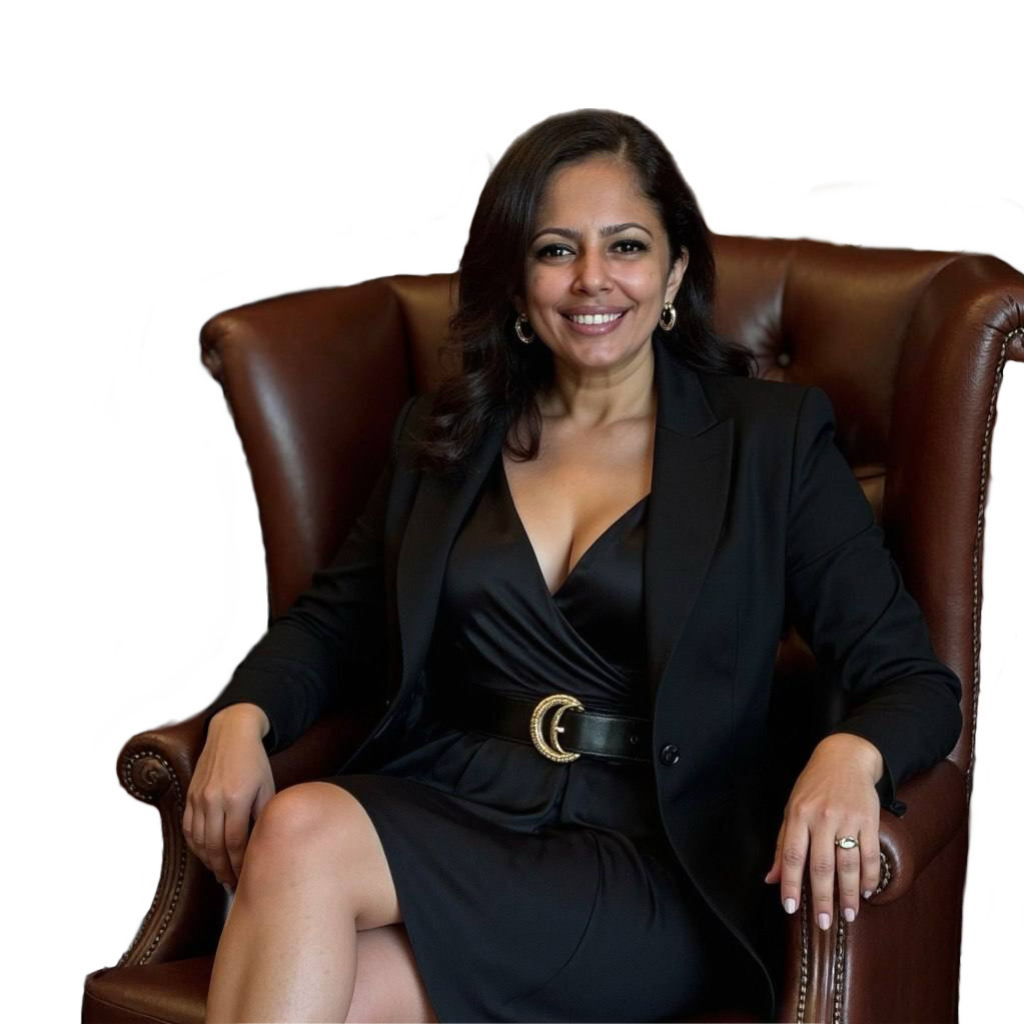
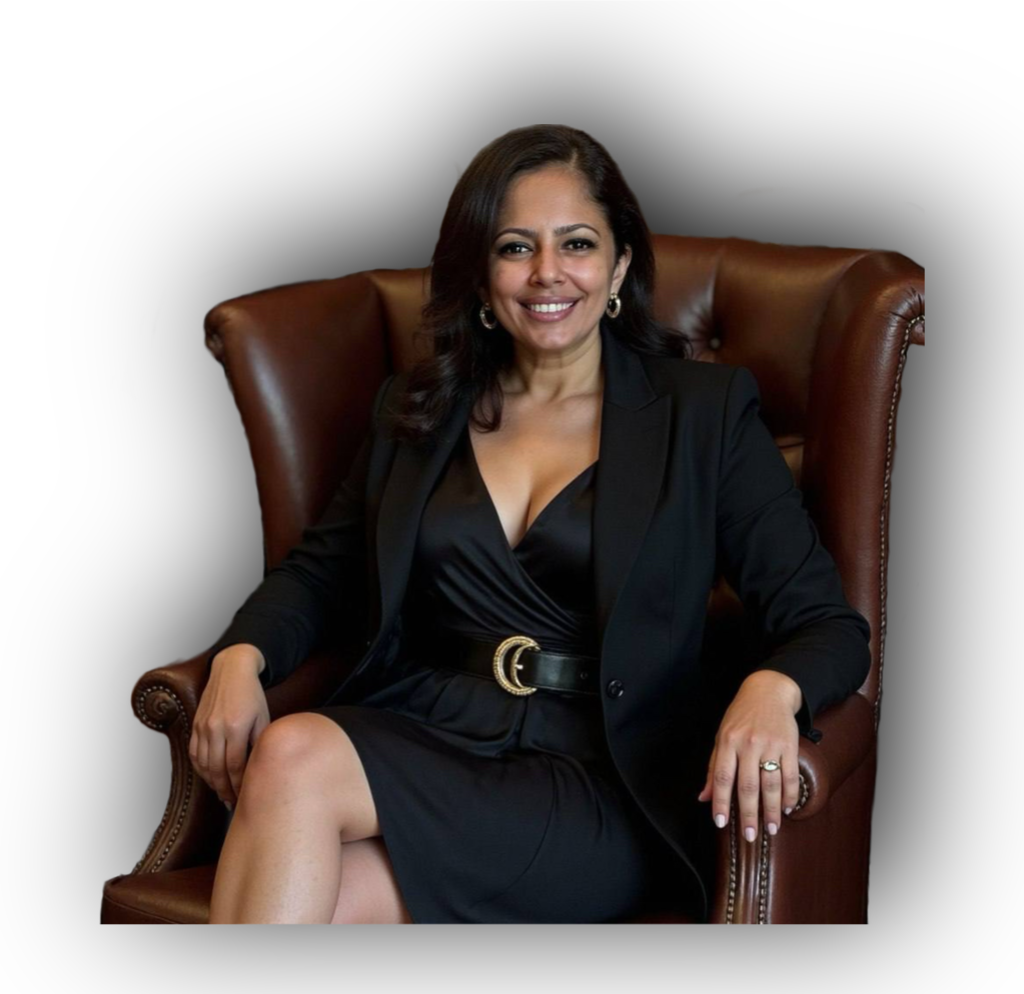
Update settings

diff --git a/index.html b/index.html
@@ -51,17 +51,37 @@
                 <ul>
                     <li>
                         <a href="#about" aria-label="Go to about section">
-                            Обо мне
+                            <!-- Обо мне -->
+                            ОБО МНЕ
+                        </a>
+                    </li>
+                    <li>
+                        <a href="#about" aria-label="Go to about section">
+                            <!-- Обо мне -->
+                            |
                         </a>
                     </li>
                     <li>
                         <a href="#services" aria-label="Go to services section">
-                            Формат работы
+                            <!-- Формат работы -->
+                            С чего начать
+                        </a>
+                    </li>
+                    <li>
+                        <a href="#about" aria-label="Go to about section">
+                            <!-- Обо мне -->
+                            |
                         </a>
                     </li>
                     <li>
                         <a href="#testimonials" aria-label="Go to testimonials section">
                             Отзывы
+                        </a>
+                    </li>
+                    <li>
+                        <a href="#about" aria-label="Go to about section">
+                            <!-- Обо мне -->
+                            |
                         </a>
                     </li>
                     <li>
@@ -100,8 +120,8 @@
                 </div>
                 <div class="hero-photo-wrap">
                     <div class="hero-photo-container">
-                        <img src="assets/images/intro/suria-sitting-smiling-in-the-chair.png"
-                            alt="Suria sitting and smiling in a chair" class="hero-photo">
+                        <img src="assets/images/intro/123123.png" alt="Suria sitting and smiling in a chair"
+                            class="hero-photo">
                     </div>
                 </div>
             </div>
@@ -110,7 +130,7 @@
             </div> -->
         </section>
 
-        <aside class="section-breaker"></aside>
+        <!-- <aside class="section-breaker"></aside> -->
 
         <section class="alt about-section" id="about">
             <div class="container about-grid">
@@ -137,7 +157,7 @@
                 </div>
             </div>
         </section>
-        <aside class="section-breaker"></aside>
+        <!-- <aside class="section-breaker"></aside> -->
         <section id="services">
             <div class="container">
                 <div class="services-header">
@@ -180,7 +200,7 @@
                 </div>
             </div>
         </section>
-        <aside class="section-breaker"></aside>
+        <!-- <aside class="section-breaker"></aside> -->
         <section id="products" class="alt">
             <div class="container products-grid">
                 <div class="products-photo-wrap">
@@ -254,7 +274,7 @@
                 </div>
             </div>
         </section>
-        <aside class="section-breaker"></aside>
+        <!-- <aside class="section-breaker"></aside> -->
 
         <section id="testimonials">
             <div class="container">
@@ -358,7 +378,7 @@
                 </div>
             </div>
         </section>
-        <aside class="section-breaker"></aside>
+        <!-- <aside class="section-breaker"></aside> -->
         <section id="social">
             <div class="container">
                 <h2 class="section-title section-title--lined">Присоединяйтесь в моих
@@ -399,7 +419,7 @@
                 </div>
             </div>
         </section>
-        <aside class="section-breaker"></aside>
+        <!-- <aside class="section-breaker"></aside> -->
         <section id="contact">
             <div class="container contact-grid">
                 <div class="contact-text" id="sofia-contact">
@@ -463,7 +483,8 @@
                     Обо мне
                 </a>
                 <a href="#services" aria-label="Go to services section">
-                    Формат работы
+                    <!-- Формат работы -->
+                    С чего начать
                 </a>
                 <a href="#services" aria-label="Go to services section">
                     Отзывы

diff --git a/assets/css/style.css b/assets/css/style.css
@@ -1,4 +1,4 @@
-/* First Font - Regular */
+/* First Font - Regular
 @font-face {
     font-family: "MyFont";
     src: url("fonts/SCJurere.otf") format("opentype");
@@ -22,20 +22,21 @@
     font-style: normal;
 }
 
-:root {
+*/:root {
     /* Цвета: #380606, #FFC909, #000000, #FFFFFF */
     /* --deep-red: #380606; */
-    --deep-red: #440000;
+    /* --deep-red: #440000; */
     /* --gold: #FFC909; */
+    --deep-red: #330606;
     --gold: #FDE885;
     --beige: #edded2;
     --black: #000000;
     --white: #FFFFFF;
     --extra-background: #0000006a;
-    /* --ff-headings: 'Lora', Georgia, serif;
-    --ff-body: 'Montserrat', -apple-system, BlinkMacSystemFont, 'Segoe UI', sans-serif; */
-    --ff-headings: "MyFont-Bold", serif;
-    --ff-body: "MyFont", -apple-system, BlinkMacSystemFont, 'Segoe UI', sans-serif;
+    --ff-headings: 'Lora', Georgia, serif;
+    --ff-body: 'Montserrat', -apple-system, BlinkMacSystemFont, 'Segoe UI', sans-serif;
+    /* --ff-headings: "MyFont-Bold", serif;
+    --ff-body: "MyFont", -apple-system, BlinkMacSystemFont, 'Segoe UI', sans-serif; */
 }
 
 
@@ -72,7 +73,8 @@ body {
     flex-direction: column;
     justify-content: center;
     align-items: center;
-    background-image: linear-gradient(to bottom, #440000, #360407, #28060a, #1a0308, #000000);
+    /* background-image: linear-gradient(to bottom, #440000, #360407, #28060a, #1a0308, #000000); */
+    background-image: linear-gradient(to bottom, #1b0000, #28060a, #1a0308, #000000);
 }
 
 a {
@@ -87,7 +89,8 @@ img {
 
 header {
     width: 100%;
-    background: var(--extra-background);
+    /* background: var(--extra-background); */
+    background-image: linear-gradient(to bottom, #440000, #360407, #28060a, #1a0308, #000000);
     color: var(--white);
     position: sticky;
     top: 0;
@@ -97,7 +100,7 @@ header {
 
 .container {
     width: 100%;
-    /* max-width: 1120px; */
+    max-width: 1120px;
     margin: 0 auto;
     padding: 0 1em;
 }
@@ -170,6 +173,14 @@ nav a:hover {
     /* background: radial-gradient(circle at top left, #5b1111 0, var(--deep-red) 40%, var(--black) 100%); */
     color: var(--white);
     padding: 2em 3em 0;
+    background-image: linear-gradient(to bottom, #1b0000, #28060a, #1a0308, #000000);
+}
+
+.hero {
+    /* background: radial-gradient(circle at top left, #5b1111 0, var(--deep-red) 40%, var(--black) 100%); */
+    color: var(--white);
+    padding: 2em 3em 0;
+    background-image: linear-gradient(to bottom, #1b0000, #28060a, #1a0308, #000000);
 }
 
 .hero-grid {
@@ -219,6 +230,7 @@ nav a:hover {
     font-weight: 600;
     font-size: 0.96rem;
     cursor: pointer;
+    margin-bottom: 1rem;
 }
 
 .btn-primary:hover {
@@ -242,10 +254,15 @@ nav a:hover {
 
 .hero-photo-wrap {
     display: flex;
-    justify-content: center;
+    justify-content: end;
+    align-items: end;
+    /* background-color: green; */
 }
 
 .hero-photo-container {
+    display: flex;
+    justify-content: end;
+    align-items: end;
     /* width: 260px;
     height: 260px;
     border-radius: 50%;
@@ -262,10 +279,18 @@ nav a:hover {
 }
 
 .hero-photo {
+    /* padding: 0; */
+    /* display: flex;
+    justify-content: end;
+    align-items: end; */
+    display: block;
     width: 100%;
     height: 100%;
     object-position: center;
     object-fit: cover !important;
+    /* border-bottom: 2px solid var(--beige);
+    border-right: 2px solid var(--beige); */
+    /* background-color: green; */
     /* -webkit-box-shadow: 0px -6px 30px 16px #000000;
     box-shadow: 0px -6px 30px 16px #000000; */
     /* border-radius: 50%; */

diff --git a/assets/css/diagnostics.css b/assets/css/diagnostics.css
@@ -38,7 +38,8 @@ a {
 /* Header */
 
 .diag-header {
-    background: var(--black);
+    /* background: var(--black); */
+    background-image: linear-gradient(to bottom, #440000, #360407, #28060a, #1a0308, #000000);
     border-bottom: 1px solid rgba(255, 255, 255, 0.1);
     position: sticky;
     top: 0;
